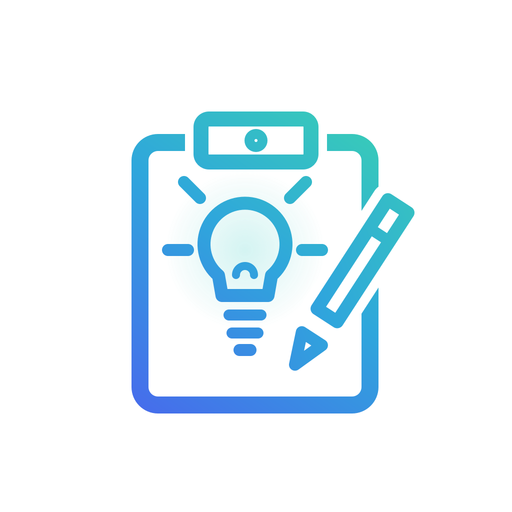
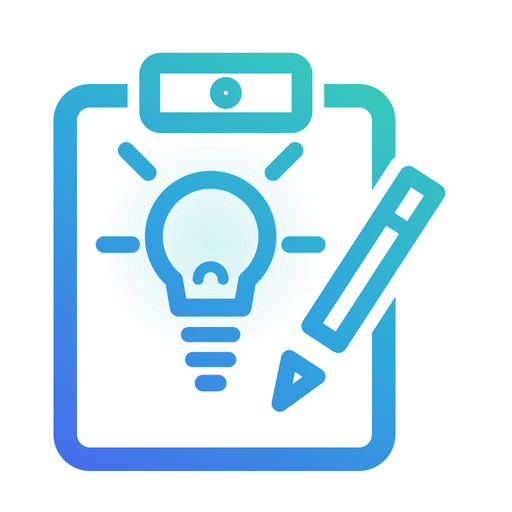
Update PWA

Changed region(s): [[0.0938, 0.0938, 0.875, 0.9375]]

diff --git a/core/native.js b/core/native.js
@@ -338,6 +338,19 @@
     return true;
   }
 
+  // ---- System-Teilen-Menü (WhatsApp & Co.) ----
+  // true = natives Teilen-Menü wurde geöffnet; false = Plugin fehlt (Web/Desktop → Fallback).
+  async function shareText(text) {
+    const S = plugin('Share');
+    if (!S || !S.share) return false;
+    try {
+      await S.share({ text });
+    } catch {
+      // Nutzer hat das Teilen-Menü zugemacht → trotzdem behandelt, kein Fallback nötig
+    }
+    return true;
+  }
+
   // ---- Android-Zurück-Knopf ----
   // handler() gibt true zurück, wenn er die Geste behandelt hat (Screen/Modal geschlossen);
   // false = wir sind ganz oben → App in den Hintergrund (statt sie hart zu beenden).
@@ -444,5 +457,5 @@
     });
   }
 
-  global.NZNative = { isNative, onDeepLink, onAppRoute, onAuthCallback, onBackButton, scanAvailable, scanQR, cameraAvailable, takePhoto, openUrl, closeBrowser, nativeRecordAvailable, startNativeRecording, stopNativeRecording, cancelNativeRecording, getRecordingLevel, registerPush, remindersAvailable, requestReminderPermission, replaceReminders, initTermActions, updateWidget, geoAvailable, geoRequestPermission, geoAuthStatus, geoCurrentPosition, geoSetPlaces, geoSetSummary, parseCode, plugin, initKeyboard };
+  global.NZNative = { isNative, onDeepLink, onAppRoute, onAuthCallback, onBackButton, shareText, scanAvailable, scanQR, cameraAvailable, takePhoto, openUrl, closeBrowser, nativeRecordAvailable, startNativeRecording, stopNativeRecording, cancelNativeRecording, getRecordingLevel, registerPush, remindersAvailable, requestReminderPermission, replaceReminders, initTermActions, updateWidget, geoAvailable, geoRequestPermission, geoAuthStatus, geoCurrentPosition, geoSetPlaces, geoSetSummary, parseCode, plugin, initKeyboard };
 })(typeof window !== 'undefined' ? window : globalThis);

diff --git a/core/config.js b/core/config.js
@@ -4,7 +4,7 @@
  */
 (function (global) {
   global.NZ_CONFIG = {
-    VERSION: '1.7.25', // wird in der Seitenleiste angezeigt – so erkennst du, ob ein Gerät aktuell ist
+    VERSION: '1.7.26', // wird in der Seitenleiste angezeigt – so erkennst du, ob ein Gerät aktuell ist
     SUPABASE_URL: 'https://stmdyyaaibpywpvfmuph.supabase.co',
     SUPABASE_KEY: 'sb_publishable_QRU3uPValHydnj5I54IMIw_1jpPvgnR',
     CLOUD: true, // false = nur lokal (kein Cloud-Sync)

diff --git a/renderer.js b/renderer.js
@@ -3208,6 +3208,8 @@ $('shareTextBtn').onclick = async () => {
   const note = currentNote();
   if (!note) return;
   const text = noteAsText(note);
+  // Handy-App: natives Teilen-Menü (WhatsApp direkt wählbar) – der Web-Weg fehlt im Android-WebView.
+  if (window.NZNative && (await NZNative.shareText(text))) return;
   try {
     if (navigator.share) {
       await navigator.share({ text });
